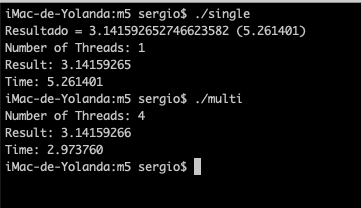
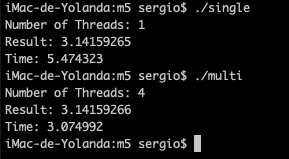
Update result

Changed region(s): [[0.0, 0.0, 1.0, 0.5283], [0.0, 0.5283, 0.7163, 0.956]]

diff --git a/m5/single-thread.c b/m5/single-thread.c
@@ -28,7 +28,6 @@ void main() {
   dDeltaTime = (FinalTime.tv_sec - InitialTime.tv_sec);
   dDeltaTime += (FinalTime.tv_nsec - InitialTime.tv_nsec) / 1000000000.0;
 
-  printf("Resultado = %20.18lf (%f)\n", dAux, dDeltaTime);
   printf("Number of Threads: %d\n", iNumberOfThreads);
   printf("Result: %2.8lf\n", dAux);
   printf("Time: %f\n", dDeltaTime);
